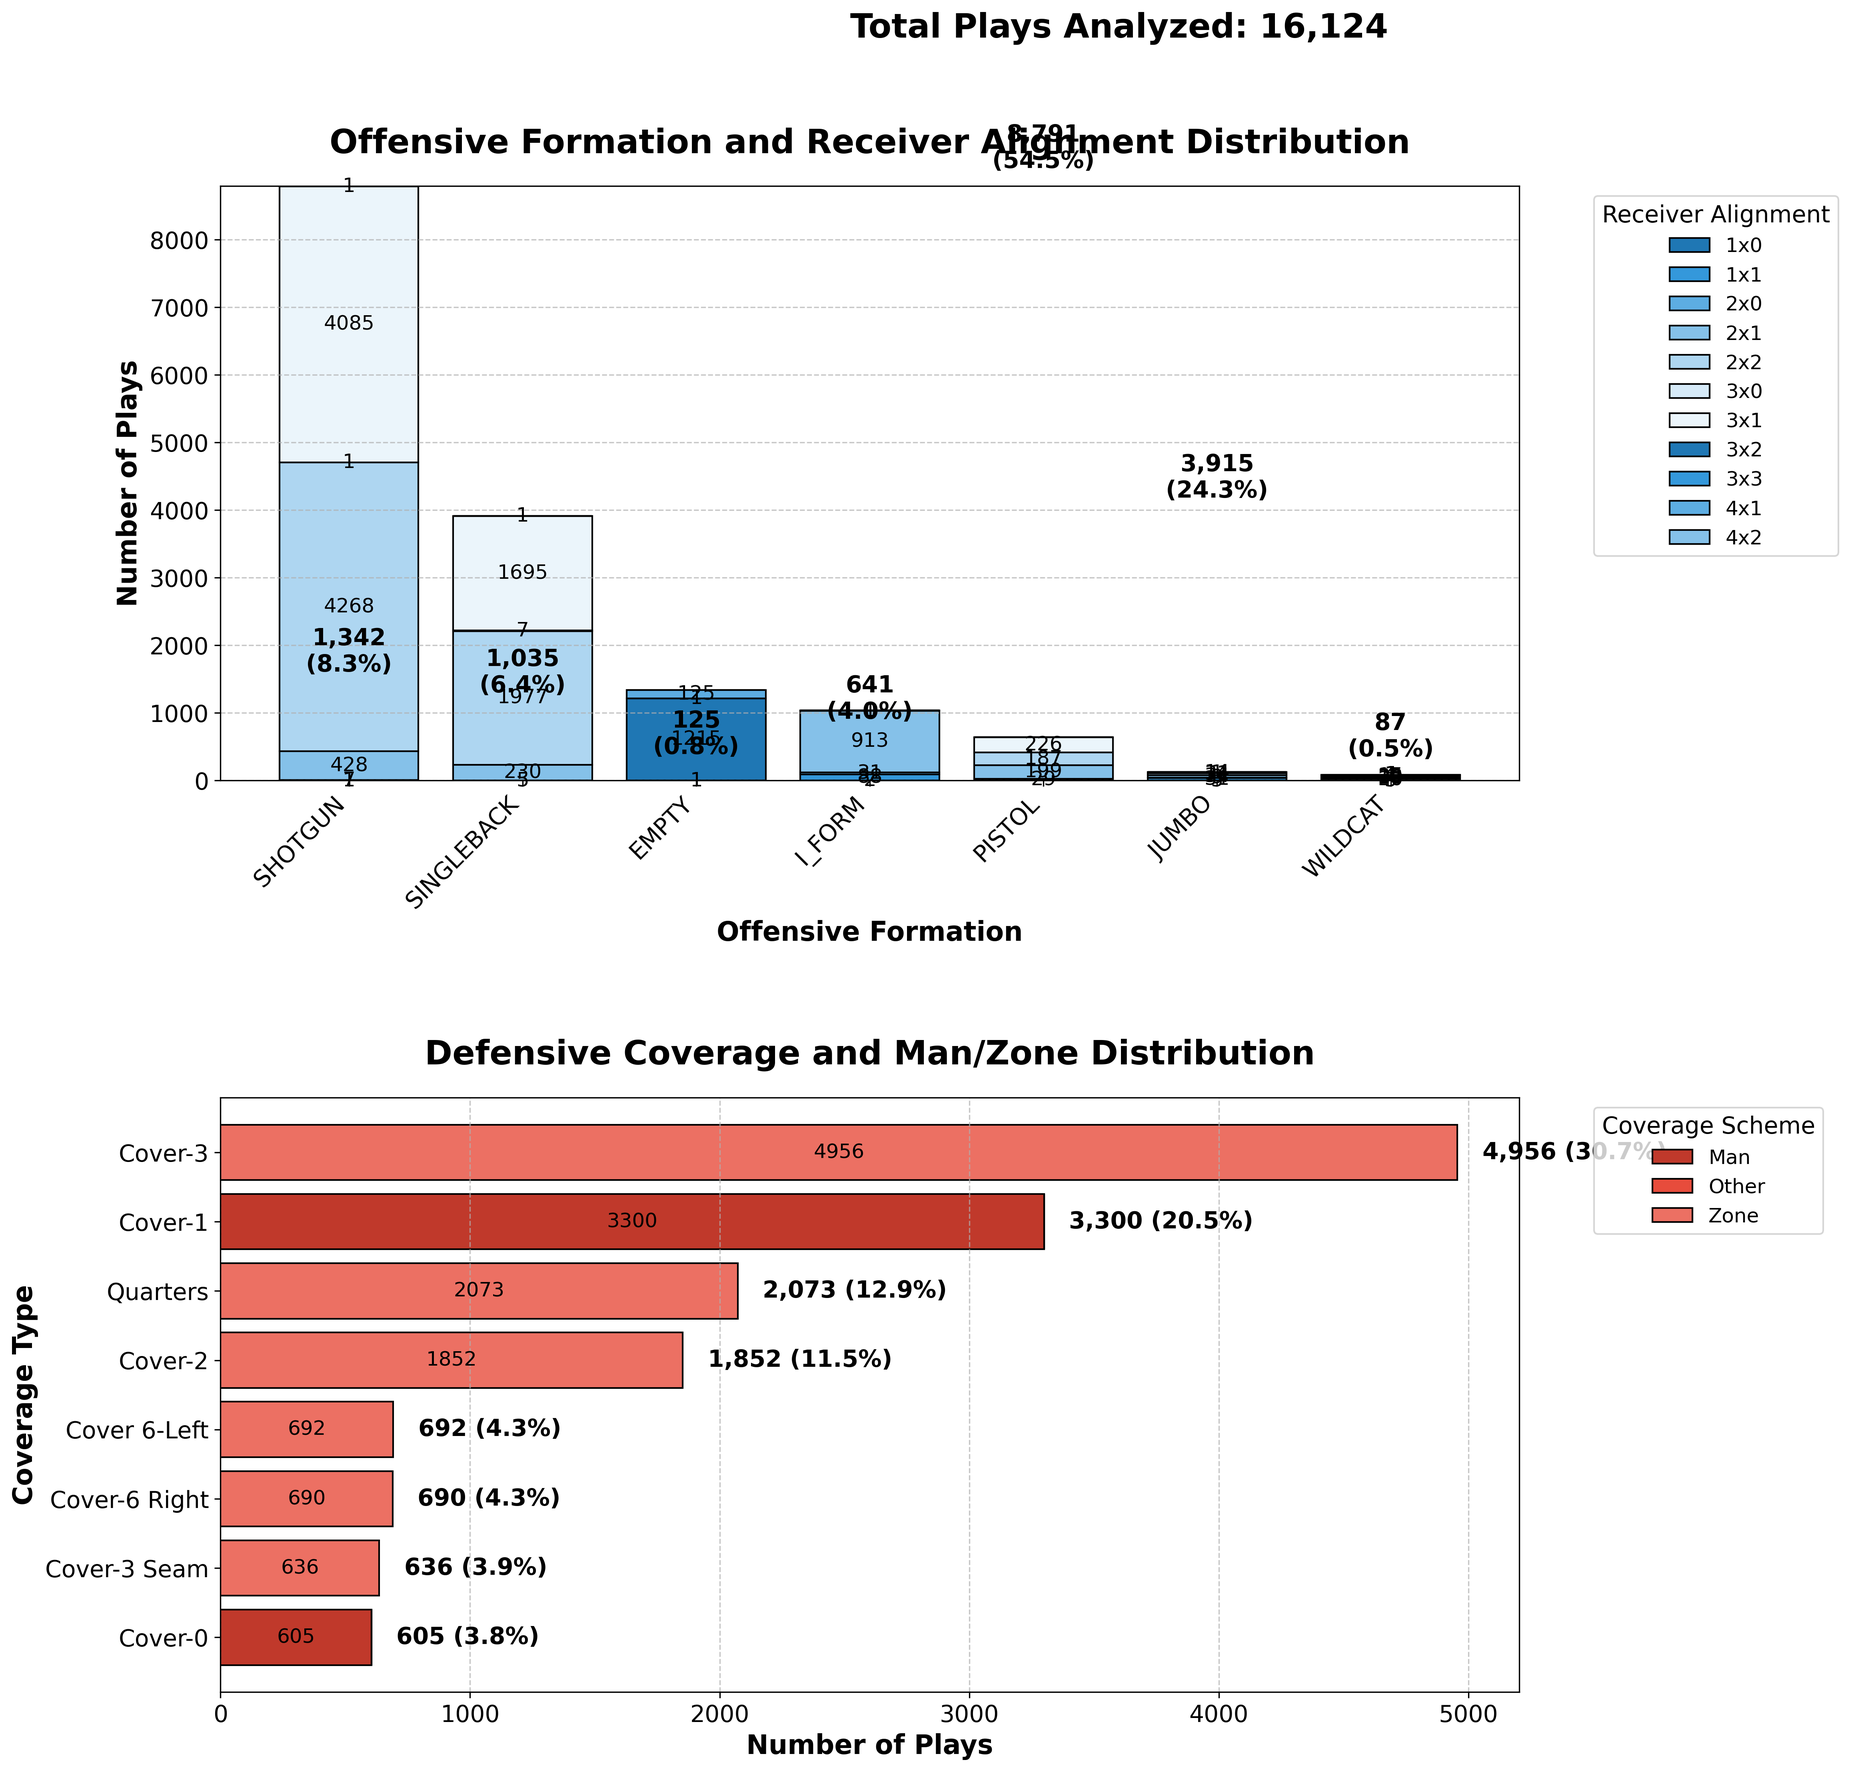
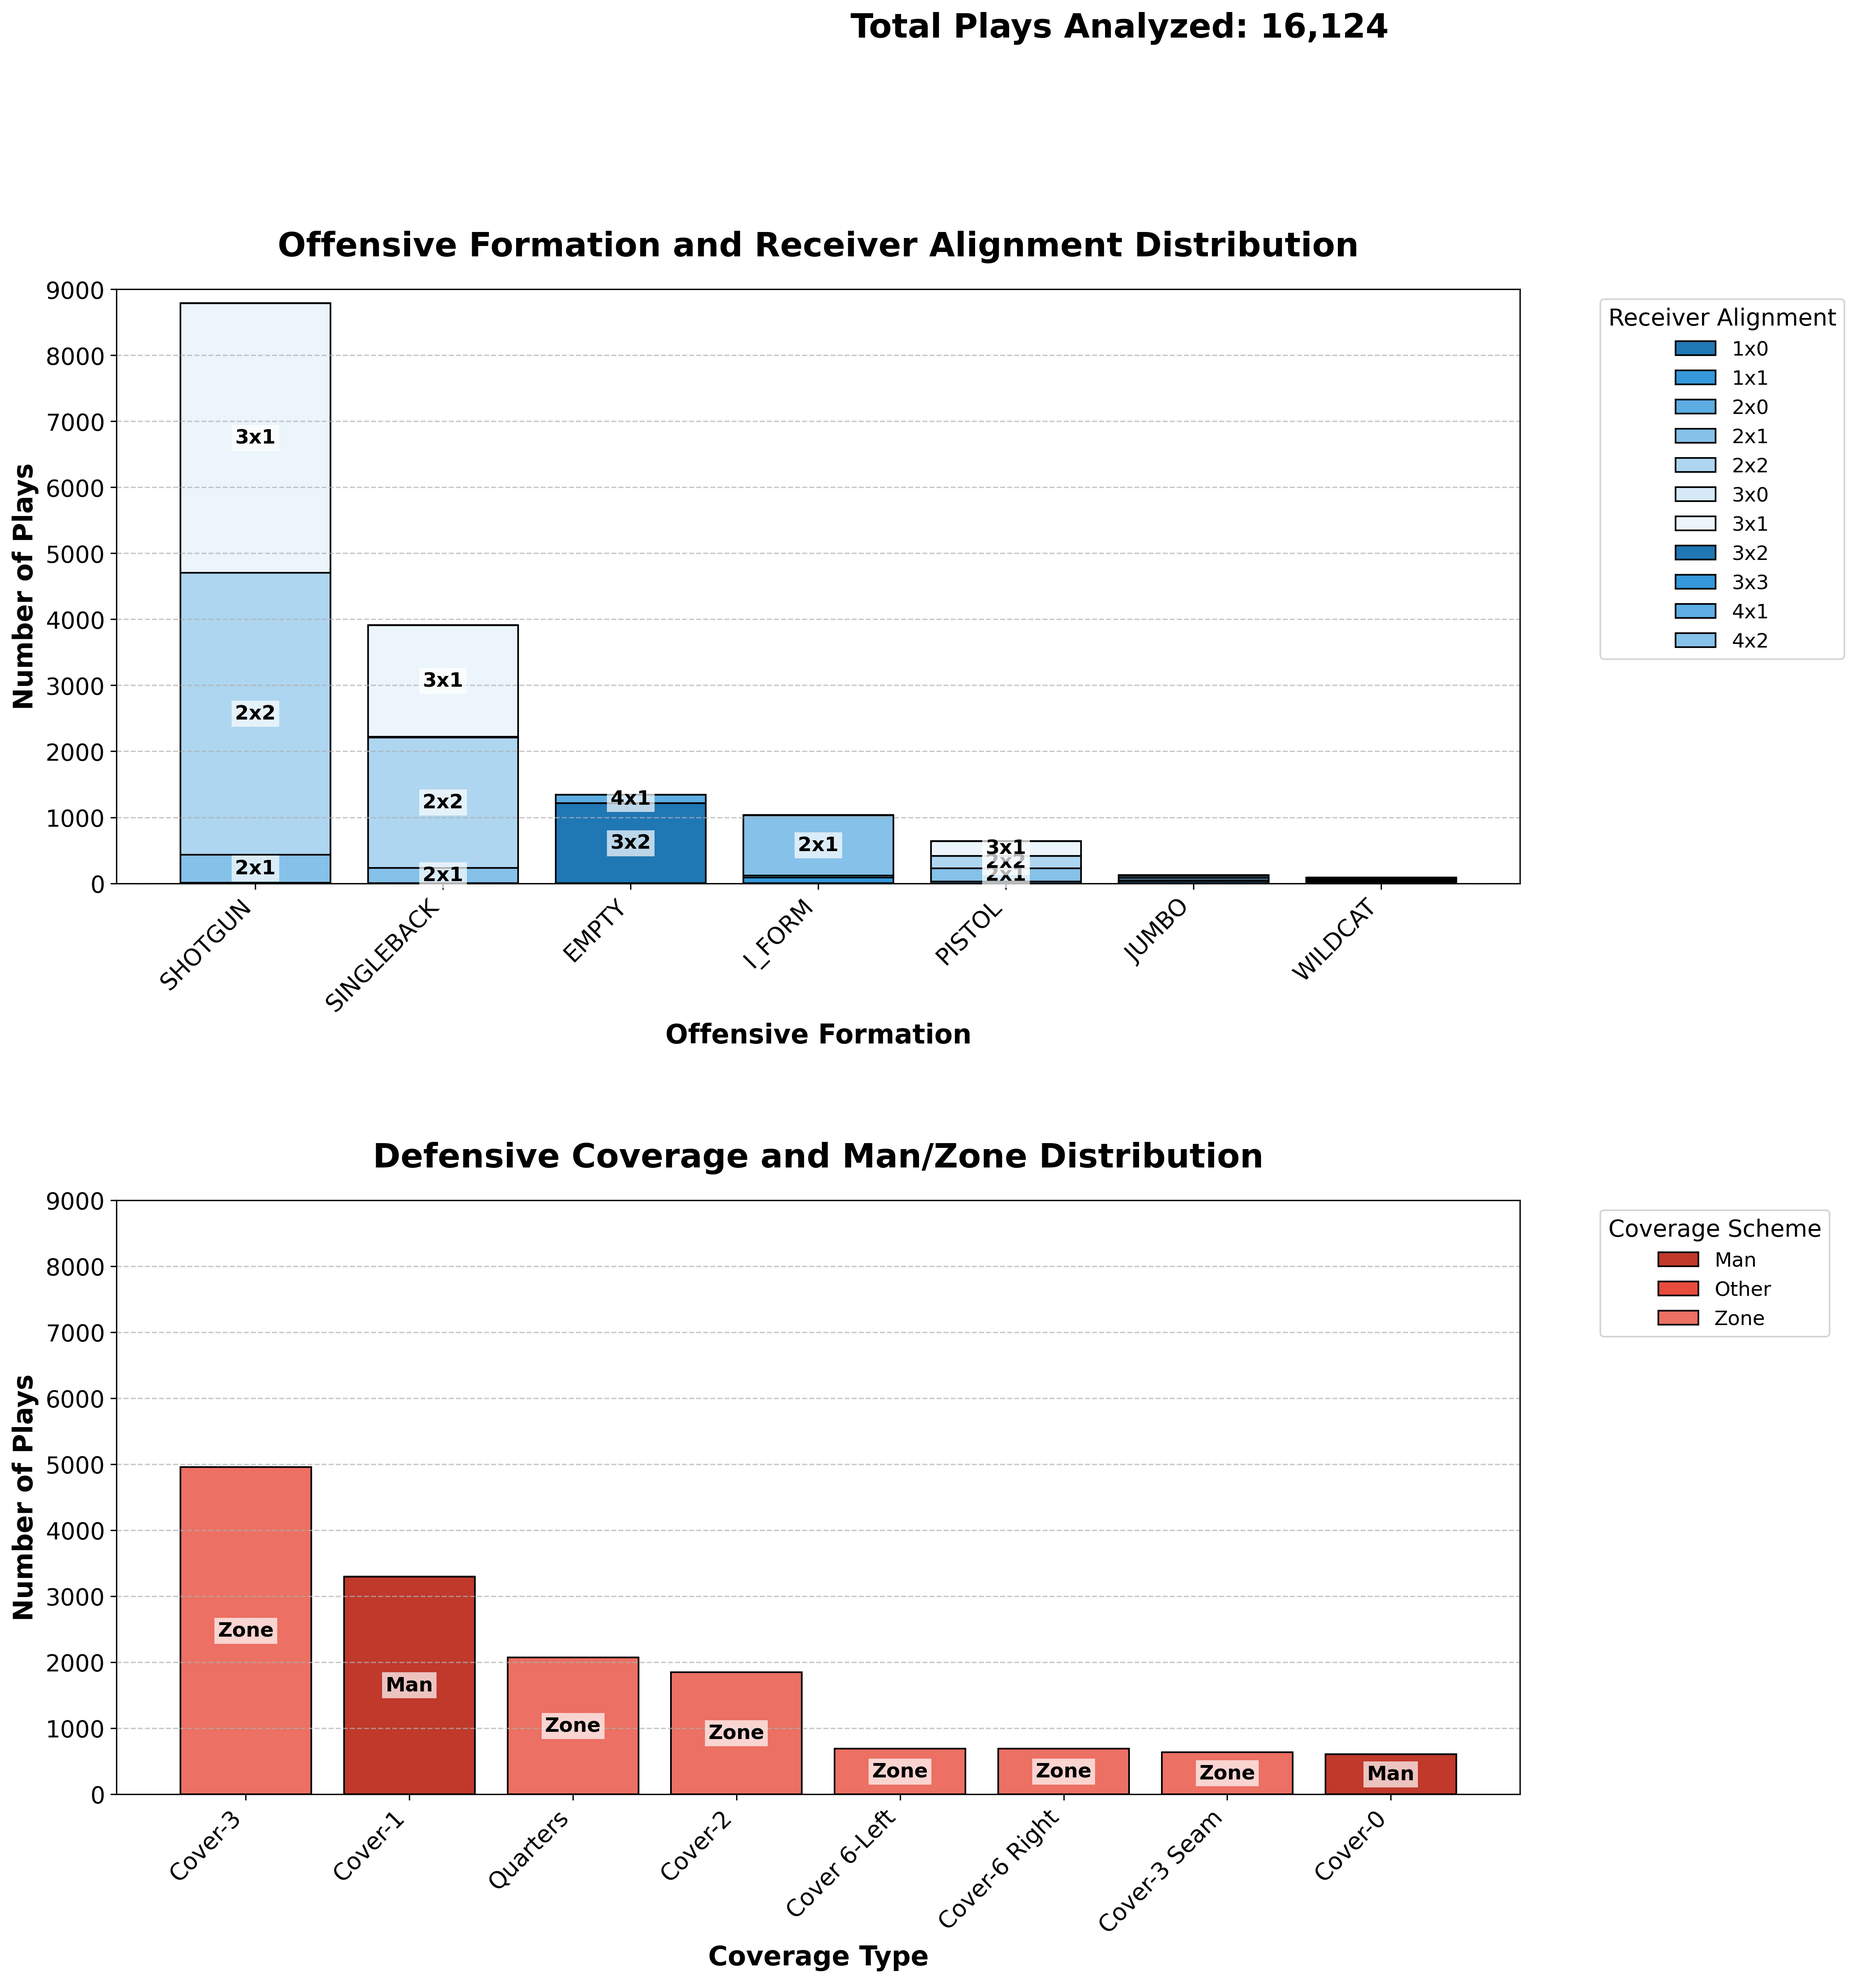
fixed visual 1

diff --git a/analyze_plays.py b/analyze_plays.py
@@ -27,19 +27,19 @@ try:
     )]
 
     # Set figure style
-    plt.rcParams['font.size'] = 14  # Increased base font size
+    plt.rcParams['font.size'] = 14
     plt.rcParams['figure.facecolor'] = 'white'
     
-    # Color schemes - previous colors
+    # Color schemes
     blue_colors = ['#1f77b4', '#3498db', '#5dade2', '#85c1e9', '#aed6f1', '#d6eaf8', '#ebf5fb']
     red_colors = ['#c0392b', '#e74c3c', '#ec7063', '#f1948a', '#f5b7b1', '#fadbd8', '#fdedec']
     
     # Create figure with subplots
-    fig = plt.figure(figsize=(20, 16))
+    fig = plt.figure(figsize=(20, 18))  # Increased height to accommodate title
     
     # Add total plays text at the top
-    plt.figtext(0.5, 0.95, f'Total Plays Analyzed: {total_plays:,}', 
-                ha='center', va='center', fontsize=20, weight='bold')
+    fig.suptitle(f'Total Plays Analyzed: {total_plays:,}', 
+                 y=0.95, fontsize=20, weight='bold')
     
     # 1. Offensive Formation and Receiver Alignment Chart
     plt.subplot(2, 1, 1)
@@ -54,22 +54,24 @@ try:
     # Create stacked bar chart
     bottom = np.zeros(len(off_cross))
     bars = []
+    min_segment_height = 100  # Minimum height for showing labels
+    
     for i, alignment in enumerate(off_cross.columns):
         bars.append(plt.bar(off_cross.index, off_cross[alignment], bottom=bottom, 
                 label=f'{alignment}', color=blue_colors[i % len(blue_colors)],
                 edgecolor='black', linewidth=1))
-        # Add value labels on the bars
+        # Add labels for significant segments
         for j, value in enumerate(off_cross[alignment]):
-            if value > 0:  # Only show labels for non-zero values
-                plt.text(j, bottom[j] + value/2, str(value),
-                        ha='center', va='center', fontsize=12, color='black')
+            if value > min_segment_height:
+                center_y = bottom[j] + value/2
+                plt.text(j, center_y, alignment,
+                        fontsize=12,
+                        weight='bold',
+                        color='black',
+                        ha='center',
+                        va='center',
+                        bbox=dict(facecolor='white', edgecolor='none', alpha=0.7, pad=2))
         bottom += off_cross[alignment]
-    
-    # Add total counts and percentages above bars
-    for i, (formation, total) in enumerate(formation_totals.items()):
-        percentage = total / total_plays * 100
-        plt.text(i, total + 200, f'{total:,}\n({percentage:.1f}%)', 
-                ha='center', va='bottom', fontsize=14, weight='bold')
     
     plt.title('Offensive Formation and Receiver Alignment Distribution', pad=20, size=20, weight='bold')
     plt.xlabel('Offensive Formation', size=16, weight='bold')
@@ -78,6 +80,7 @@ try:
     plt.legend(title='Receiver Alignment', bbox_to_anchor=(1.05, 1), loc='upper left', 
               title_fontsize=14, fontsize=12)
     plt.grid(axis='y', linestyle='--', alpha=0.7)
+    plt.ylim(0, 9000)  # Set consistent y-axis limit
 
     # 2. Defensive Coverage and Man/Zone Chart
     plt.subplot(2, 1, 2)
@@ -87,35 +90,36 @@ try:
     
     # Sort coverages by total frequency and keep top 8
     coverage_totals = def_cross.sum(axis=1)
-    top_coverages = coverage_totals.sort_values(ascending=True).tail(8)
+    top_coverages = coverage_totals.sort_values(ascending=False).head(8)
     def_cross = def_cross.loc[top_coverages.index]
     
-    # Create horizontal stacked bar chart
-    left = np.zeros(len(def_cross))
+    # Create vertical stacked bar chart
+    bottom = np.zeros(len(def_cross))
     for i, coverage_type in enumerate(def_cross.columns):
-        bars = plt.barh(def_cross.index, def_cross[coverage_type], left=left,
-                label=f'{coverage_type}', color=red_colors[i % len(red_colors)],
-                edgecolor='black', linewidth=1)
-        # Add value labels on the bars
+        plt.bar(def_cross.index, def_cross[coverage_type], bottom=bottom,
+               label=f'{coverage_type}', color=red_colors[i % len(red_colors)],
+               edgecolor='black', linewidth=1)
+        # Add labels for significant segments
         for j, value in enumerate(def_cross[coverage_type]):
-            if value > 0:  # Only show labels for non-zero values
-                plt.text(left[j] + value/2, j, str(value),
-                        ha='center', va='center', fontsize=12, color='black')
-        left += def_cross[coverage_type]
-    
-    # Add total counts and percentages at end of bars
-    for i, (coverage, total) in enumerate(def_cross.sum(axis=1).items()):
-        percentage = total / total_plays * 100
-        plt.text(total + 100, i, f'{total:,} ({percentage:.1f}%)', 
-                va='center', fontsize=14, weight='bold')
+            if value > min_segment_height:
+                center_y = bottom[j] + value/2
+                plt.text(j, center_y, coverage_type,
+                        fontsize=12,
+                        weight='bold',
+                        color='black',
+                        ha='center',
+                        va='center',
+                        bbox=dict(facecolor='white', edgecolor='none', alpha=0.7, pad=2))
+        bottom += def_cross[coverage_type]
     
     plt.title('Defensive Coverage and Man/Zone Distribution', pad=20, size=20, weight='bold')
-    plt.xlabel('Number of Plays', size=16, weight='bold')
-    plt.ylabel('Coverage Type', size=16, weight='bold')
+    plt.xlabel('Coverage Type', size=16, weight='bold')
+    plt.ylabel('Number of Plays', size=16, weight='bold')
+    plt.xticks(rotation=45, ha='right', fontsize=14)
     plt.legend(title='Coverage Scheme', bbox_to_anchor=(1.05, 1), loc='upper left',
               title_fontsize=14, fontsize=12)
-    plt.grid(axis='x', linestyle='--', alpha=0.7)
-    plt.tick_params(axis='both', which='major', labelsize=14)
+    plt.grid(axis='y', linestyle='--', alpha=0.7)
+    plt.ylim(0, 9000)  # Set consistent y-axis limit
 
     # Adjust layout and save
     plt.tight_layout(pad=4.0, rect=[0, 0, 0.85, 0.95])  # Make room for legends
